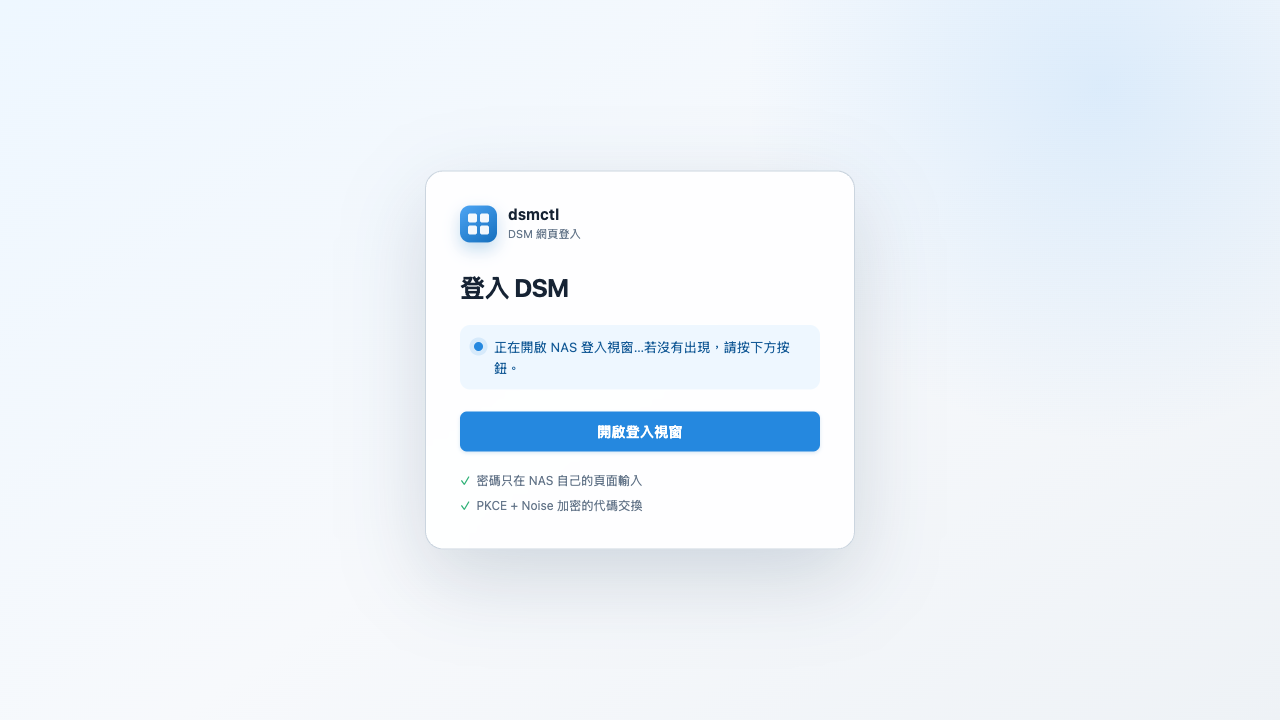
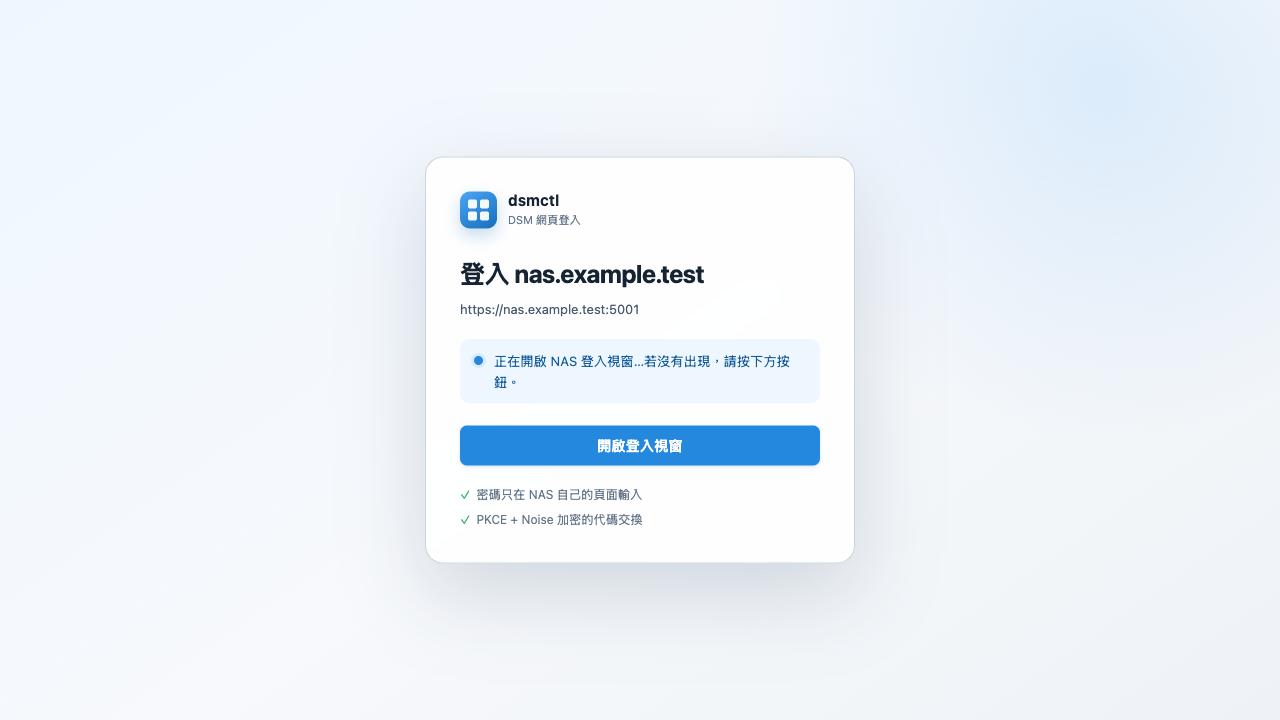
Name the target NAS host in the web-login page heading
The heading now reads "Sign in to <host>" in all five locales, with the
full origin kept below it so scheme and port stay checkable. The heading
templates carry a {host} placeholder because word order differs per
language.

Changed region(s): [[0.3438, 0.2444, 0.6562, 0.7333], [0.3438, 0.7333, 0.6875, 0.7944]]

diff --git a/internal/weblogin/page.go b/internal/weblogin/page.go
@@ -1,5 +1,7 @@
 package weblogin
 
+import "net/url"
+
 // buildPage renders the loopback helper page that hosts the DSM sign-in
 // popup and relays the one-time code to the local callback.
 //
@@ -13,7 +15,13 @@ package weblogin
 // the /callback HTTP status, never by injecting server response text.
 func buildPage(loginURL, dsmOrigin string) string {
 	// loginURL and dsmOrigin are produced internally from a validated base URL,
-	// so they are safe to embed in the JS string literals below.
+	// so they are safe to embed in the JS string literals below. The heading
+	// names the bare host; the target line keeps the full origin so scheme and
+	// port stay checkable.
+	host := dsmOrigin
+	if parsed, err := url.Parse(dsmOrigin); err == nil && parsed.Hostname() != "" {
+		host = parsed.Hostname()
+	}
 	return `<!doctype html>
 <html lang="en">
 <head>
@@ -109,7 +117,7 @@ h1{margin:0 0 6px;font-size:25px;letter-spacing:-.02em}
 <body data-state="waiting">
 <main class="card">
   <div class="brand"><span class="brand-mark" aria-hidden="true"><i></i><i></i><i></i><i></i></span><span class="brand-copy"><strong>dsmctl</strong><span data-i18n="brandSub">DSM web sign-in</span></span></div>
-  <h1 data-i18n="heading">Sign in to DSM</h1>
+  <h1 data-i18n="heading">Sign in to ` + host + `</h1>
   <p class="target">` + dsmOrigin + `</p>
   <div class="status" role="status">
     <span class="dot" aria-hidden="true"></span>
@@ -129,19 +137,20 @@ h1{margin:0 0 6px;font-size:25px;letter-spacing:-.02em}
 <script>
 var loginUrl = "` + loginURL + `";
 var dsmOrigin = "` + dsmOrigin + `";
+var host = "` + host + `";
 var strings = {
-en:{brandSub:"DSM web sign-in",heading:"Sign in to DSM",waiting:"Opening the NAS sign-in window… if nothing appears, use the button.",exchanging:"Completing sign-in…",success:"Signed in. You can close this window and return to the terminal.",failure:"Sign-in failed. Return to the terminal for details.",button:"Open sign-in window",footPassword:"Password entered only on the NAS's own page",footCrypto:"PKCE + Noise-encrypted code exchange"},
-"zh-TW":{brandSub:"DSM 網頁登入",heading:"登入 DSM",waiting:"正在開啟 NAS 登入視窗…若沒有出現，請按下方按鈕。",exchanging:"正在完成登入…",success:"已登入。可以關閉此視窗，回到終端機。",failure:"登入失敗。請回到終端機查看詳細資訊。",button:"開啟登入視窗",footPassword:"密碼只在 NAS 自己的頁面輸入",footCrypto:"PKCE + Noise 加密的代碼交換"},
-"zh-CN":{brandSub:"DSM 网页登录",heading:"登录 DSM",waiting:"正在打开 NAS 登录窗口…若未出现，请点击下方按钮。",exchanging:"正在完成登录…",success:"已登录。可以关闭此窗口，回到终端。",failure:"登录失败。请回到终端查看详细信息。",button:"打开登录窗口",footPassword:"密码只在 NAS 自己的页面输入",footCrypto:"PKCE + Noise 加密的代码交换"},
-ja:{brandSub:"DSM ウェブサインイン",heading:"DSM にサインイン",waiting:"NAS のサインインウィンドウを開いています…表示されない場合は下のボタンを押してください。",exchanging:"サインインを完了しています…",success:"サインインしました。このウィンドウを閉じてターミナルに戻れます。",failure:"サインインに失敗しました。詳細はターミナルをご確認ください。",button:"サインインウィンドウを開く",footPassword:"パスワードは NAS 自身のページでのみ入力されます",footCrypto:"PKCE + Noise 暗号化によるコード交換"},
-de:{brandSub:"DSM-Web-Anmeldung",heading:"Bei DSM anmelden",waiting:"Das NAS-Anmeldefenster wird geöffnet … Falls nichts erscheint, nutzen Sie die Schaltfläche.",exchanging:"Anmeldung wird abgeschlossen …",success:"Angemeldet. Sie können dieses Fenster schließen und zum Terminal zurückkehren.",failure:"Anmeldung fehlgeschlagen. Details finden Sie im Terminal.",button:"Anmeldefenster öffnen",footPassword:"Passwort wird nur auf der Seite des NAS eingegeben",footCrypto:"Code-Austausch mit PKCE + Noise-Verschlüsselung"}
+en:{brandSub:"DSM web sign-in",heading:"Sign in to {host}",waiting:"Opening the NAS sign-in window… if nothing appears, use the button.",exchanging:"Completing sign-in…",success:"Signed in. You can close this window and return to the terminal.",failure:"Sign-in failed. Return to the terminal for details.",button:"Open sign-in window",footPassword:"Password entered only on the NAS's own page",footCrypto:"PKCE + Noise-encrypted code exchange"},
+"zh-TW":{brandSub:"DSM 網頁登入",heading:"登入 {host}",waiting:"正在開啟 NAS 登入視窗…若沒有出現，請按下方按鈕。",exchanging:"正在完成登入…",success:"已登入。可以關閉此視窗，回到終端機。",failure:"登入失敗。請回到終端機查看詳細資訊。",button:"開啟登入視窗",footPassword:"密碼只在 NAS 自己的頁面輸入",footCrypto:"PKCE + Noise 加密的代碼交換"},
+"zh-CN":{brandSub:"DSM 网页登录",heading:"登录 {host}",waiting:"正在打开 NAS 登录窗口…若未出现，请点击下方按钮。",exchanging:"正在完成登录…",success:"已登录。可以关闭此窗口，回到终端。",failure:"登录失败。请回到终端查看详细信息。",button:"打开登录窗口",footPassword:"密码只在 NAS 自己的页面输入",footCrypto:"PKCE + Noise 加密的代码交换"},
+ja:{brandSub:"DSM ウェブサインイン",heading:"{host} にサインイン",waiting:"NAS のサインインウィンドウを開いています…表示されない場合は下のボタンを押してください。",exchanging:"サインインを完了しています…",success:"サインインしました。このウィンドウを閉じてターミナルに戻れます。",failure:"サインインに失敗しました。詳細はターミナルをご確認ください。",button:"サインインウィンドウを開く",footPassword:"パスワードは NAS 自身のページでのみ入力されます",footCrypto:"PKCE + Noise 暗号化によるコード交換"},
+de:{brandSub:"DSM-Web-Anmeldung",heading:"Bei {host} anmelden",waiting:"Das NAS-Anmeldefenster wird geöffnet … Falls nichts erscheint, nutzen Sie die Schaltfläche.",exchanging:"Anmeldung wird abgeschlossen …",success:"Angemeldet. Sie können dieses Fenster schließen und zum Terminal zurückkehren.",failure:"Anmeldung fehlgeschlagen. Details finden Sie im Terminal.",button:"Anmeldefenster öffnen",footPassword:"Passwort wird nur auf der Seite des NAS eingegeben",footCrypto:"Code-Austausch mit PKCE + Noise-Verschlüsselung"}
 };
 function normalizeLocale(value){var input=String(value||"").toLowerCase();if(input.indexOf("zh-hant")===0||input.indexOf("zh-tw")===0||input.indexOf("zh-hk")===0)return "zh-TW";if(input.indexOf("zh")===0)return "zh-CN";if(input.indexOf("ja")===0)return "ja";if(input.indexOf("de")===0)return "de";return "en"}
 var locale = normalizeLocale(navigator.language);
 document.documentElement.lang = {"zh-TW":"zh-Hant","zh-CN":"zh-Hans",ja:"ja",de:"de",en:"en"}[locale];
 var table = strings[locale];
 for (var nodes = document.querySelectorAll("[data-i18n]"), i = 0; i < nodes.length; i++) {
-  nodes[i].textContent = table[nodes[i].getAttribute("data-i18n")];
+  nodes[i].textContent = table[nodes[i].getAttribute("data-i18n")].replace("{host}", host);
 }
 function setState(s){ document.body.setAttribute("data-state", s); }
 function start(){ window.open(loginUrl, "dsmctl_signin", "width=560,height=720"); }

diff --git a/internal/weblogin/page_test.go b/internal/weblogin/page_test.go
@@ -35,11 +35,11 @@ func TestPageCarriesSharedDesignTokens(t *testing.T) {
 func TestPageLocalizesAllFiveLocales(t *testing.T) {
 	page := buildPage(testLoginURL, testDSMOrigin)
 	for _, want := range []string{
-		`"Sign in to DSM"`,
-		`"登入 DSM"`,
-		`"登录 DSM"`,
-		`"DSM にサインイン"`,
-		`"Bei DSM anmelden"`,
+		`"Sign in to {host}"`,
+		`"登入 {host}"`,
+		`"登录 {host}"`,
+		`"{host} にサインイン"`,
+		`"Bei {host} anmelden"`,
 		`normalizeLocale`,
 		`navigator.language`,
 		`"zh-Hant"`,
@@ -90,5 +90,8 @@ func TestPageShowsTargetNAS(t *testing.T) {
 	page := buildPage(testLoginURL, testDSMOrigin)
 	if !strings.Contains(page, `<p class="target">`+testDSMOrigin+`</p>`) {
 		t.Error("page must visibly name the NAS origin it signs in to")
+	}
+	if !strings.Contains(page, `<h1 data-i18n="heading">Sign in to nas.example.test</h1>`) {
+		t.Error("page heading must name the NAS host")
 	}
 }